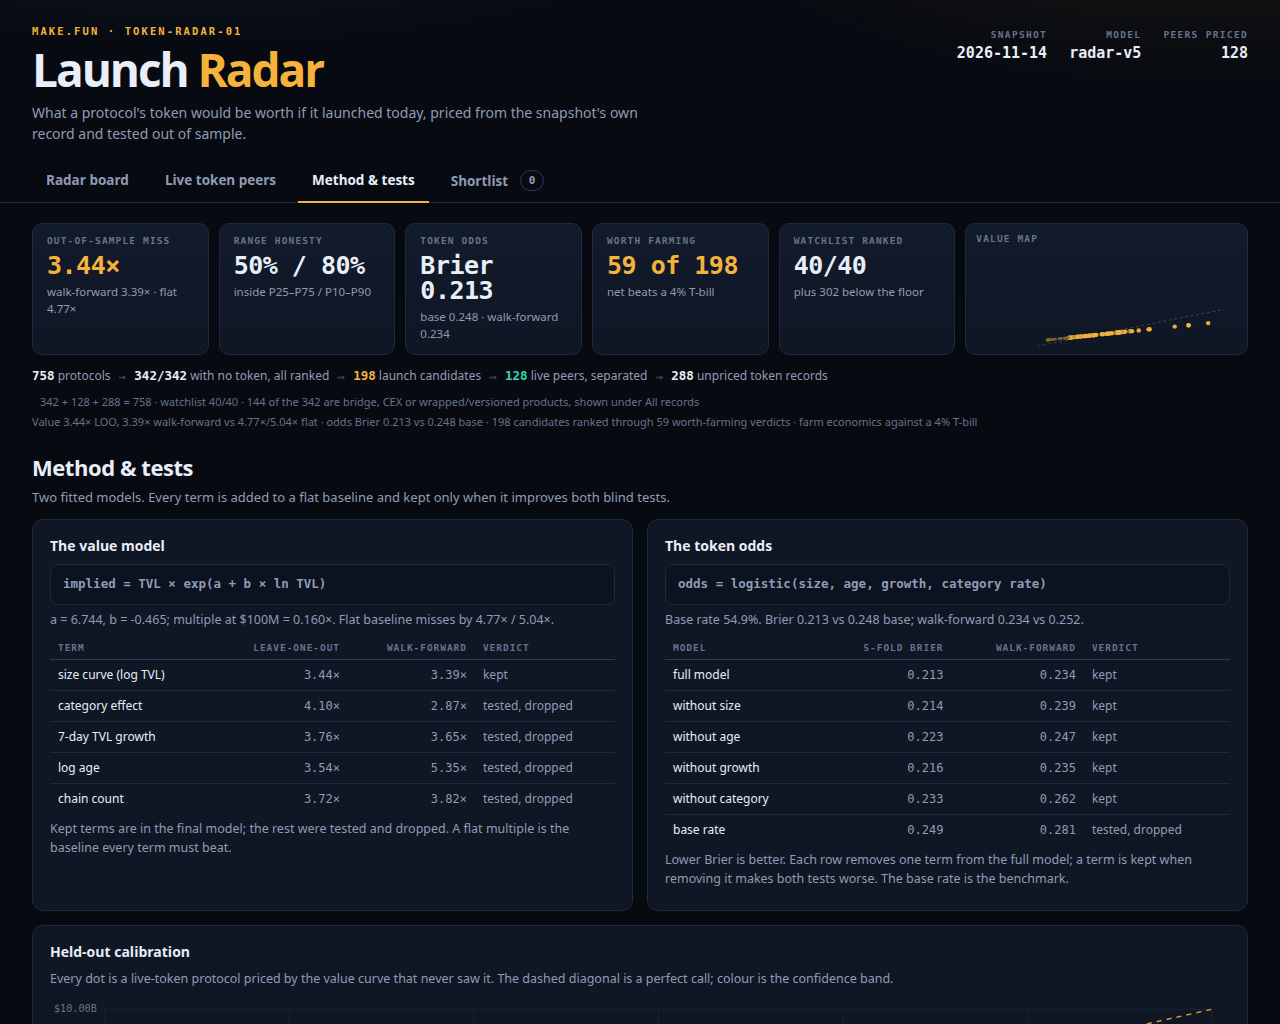
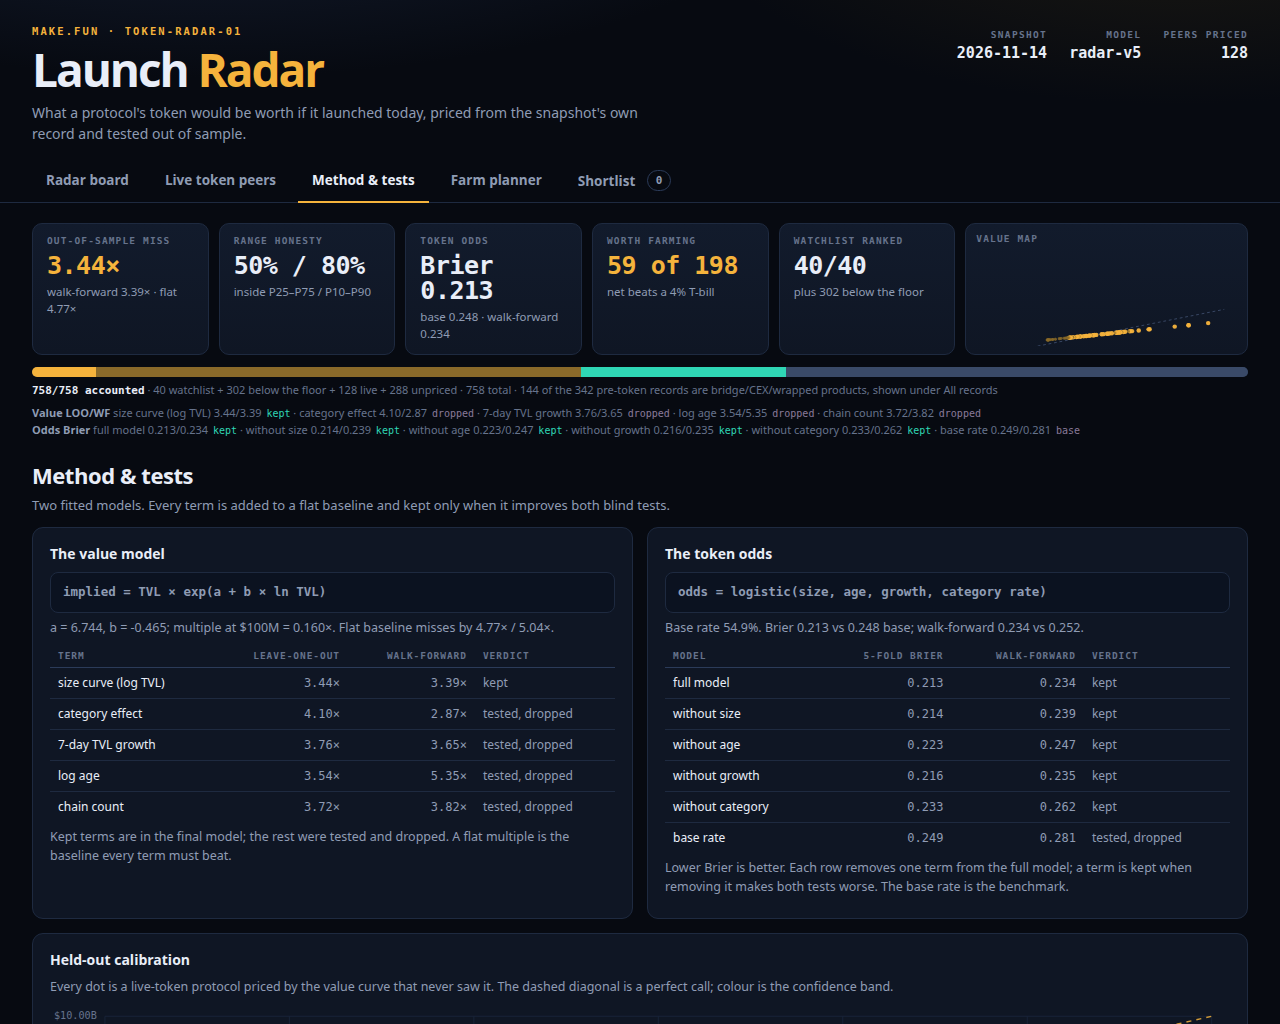
Add a farm planner and fit the dashboard back under the dossier cap
Allocate a budget across the shortlist (or the top six by net per hour),
with horizon and risk controls and portfolio drop/fees/net against a
4% T-bill. Remove the dashboard README and duplicated method tables to
stay inside the 65,536-byte source cap. Model unchanged from v5; held.

diff --git a/dashboard/app.js b/dashboard/app.js
@@ -43,10 +43,11 @@
     return 1 / (1 + Math.exp(-z));
   }
   function verdictOf(net, odds, benchmark) { return net > benchmark && odds >= 0.5 ? 'worth' : net > 0 ? 'marginal' : 'skip'; }
-  function farm(row, pos) {
+  function farm(row, pos, horizon) {
+    horizon = horizon || 12;
     var drop = row.implied * R.model.dropShare * (pos / row.tvl);
     var net = drop - row.plan.fees;
-    var benchmark = pos * 0.04 * 12 / 52;
+    var benchmark = pos * 0.04 * horizon / 52;
     return { drop: drop, fees: row.plan.fees, net: net, benchmark: benchmark, perHour: net / Math.max(0.1, row.plan.hours), verdict: verdictOf(net, row.odds, benchmark) };
   }
 
@@ -68,6 +69,7 @@
     if (parts[0] === 'live') return { name: 'live' };
     if (parts[0] === 'method') return { name: 'method' };
     if (parts[0] === 'compare') return { name: 'compare', params: params };
+    if (parts[0] === 'plan') return { name: 'plan' };
     return { name: 'board', params: params };
   }
   function show(name) {
@@ -78,6 +80,7 @@
     $('#liveView').hidden = name !== 'live';
     $('#methodView').hidden = name !== 'method';
     $('#compareView').hidden = name !== 'compare';
+    $('#planView').hidden = name !== 'plan';
     $('#detailView').hidden = name !== 'detail';
     document.querySelectorAll('.tabs a').forEach(function (a) {
       if (a.getAttribute('data-tab') === name) a.setAttribute('aria-current', 'page'); else a.removeAttribute('aria-current');
@@ -624,24 +627,6 @@
       rr.appendChild(d);
     });
     drawCalibration();
-    var ct = $('#countTable');
-    var cb = el('tbody');
-    [['Protocols in the snapshot', R.counts.protocols], ['Records with no token', R.counts.preToken], ['Launch candidates', R.counts.candidates], ['On the watchlist', R.counts.watchlist], ['Live tokens separated', R.counts.live], ['Token records without a price', R.counts.unpriced], ['Excluded: bridge TVL', R.counts.excludedBridge], ['Excluded: exchange product', R.counts.excludedCex], ['Excluded: wrapped / versioned', R.counts.excludedProduct], ['Farm verdict: worth', R.counts.worth], ['Farm verdict: marginal', R.counts.marginal], ['Farm verdict: skip', R.counts.skip]].forEach(function (r) {
-      var tr = el('tr');
-      tr.appendChild(el('td', null, r[0]));
-      tr.appendChild(el('td', 'num', FMT.format(r[1])));
-      cb.appendChild(tr);
-    });
-    ct.replaceChildren(cb);
-    var fr = $('#farmRow');
-    fr.replaceChildren();
-    [['Plan size', '$10,000', 'per farm'], ['Drop share', '7%', 'of implied value'], ['T-bill', '$' + R.model.benchmark.toFixed(0), '12 weeks'], ['Worth', R.counts.worth + ' of ' + R.counts.candidates, 'beats it after fees']].forEach(function (s) {
-      var d = el('div', 'score');
-      d.appendChild(el('span', null, s[0]));
-      d.appendChild(el('b', null, s[1]));
-      d.appendChild(el('em', null, s[2]));
-      fr.appendChild(d);
-    });
     $('#provenance').textContent = 'Source: ' + R.source + '. Snapshot ' + R.asOf + ', watchlist floor $' + FMT.format(R.floor) + '.';
   }
 
@@ -693,6 +678,64 @@
     host.appendChild(links);
   }
 
+  // ---------- farm planner ----------
+  function renderPlan() {
+    var budget = Number($('#planBudget').value) || 10000;
+    var horizon = Number($('#planHorizon').value) || 12;
+    var risk = $('#planRisk').value;
+    var owned = R.rows.filter(function (r) { return pins.has(r.slug); });
+    var chosen = owned.length ? owned : R.rows.filter(function (r) { return r.candidate && r.plan.verdict !== 'skip'; }).sort(function (a, b) { return b.plan.perHour - a.plan.perHour; }).slice(0, 6);
+    if (risk === 'worth') chosen = chosen.filter(function (r) { return r.plan.verdict === 'worth'; });
+    var host = $('#planBody');
+    host.replaceChildren();
+    if (chosen.length === 0) {
+      host.appendChild(el('p', 'empty', owned.length ? 'No shortlisted row passes this filter. Widen it or star other rows.' : 'No candidate passes this filter. Lower the bar or switch the verdict.'));
+      return;
+    }
+    var alloc = budget / chosen.length;
+    var rows = chosen.map(function (r) { return { r: r, f: farm(r, alloc, horizon) }; });
+    var drop = rows.reduce(function (s, x) { return s + x.f.drop; }, 0);
+    var fees = rows.reduce(function (s, x) { return s + x.f.fees; }, 0);
+    var net = drop - fees;
+    var bench = budget * 0.04 * horizon / 52;
+    var hours = Math.max.apply(null, chosen.map(function (r) { return r.plan.hours; }));
+    var verdict = net > bench ? 'worth' : net > 0 ? 'marginal' : 'skip';
+    var totals = el('div', 'terms planTotals');
+    [['Budget', money(budget), chosen.length + ' protocols · ' + money(alloc) + ' each'], ['Drop', money(drop), '7% of implied × share'], ['Fees', money(fees), 'gas across the plan'], ['Net', money(net), verdict.toUpperCase()], ['T-bill', money(bench), horizon + ' weeks at 4%'], ['Net / hour', money(net / Math.max(0.1, hours)), 'parallel farm · ' + hours + ' h']].forEach(function (t) {
+      var d = el('div', 'term' + (t[0] === 'Net' ? ' result' : ''));
+      d.appendChild(el('span', null, t[0]));
+      d.appendChild(el('b', null, t[1]));
+      d.appendChild(el('em', null, t[2]));
+      totals.appendChild(d);
+    });
+    host.appendChild(totals);
+    var note = el('p', 'muted', owned.length ? 'Using your ' + owned.length + ' starred rows.' : 'No starred rows: using the top six candidates by net per hour. Star rows on the board to plan your own.');
+    host.appendChild(note);
+    var table = el('table', 'mini planList');
+    var thead = el('thead');
+    var hr = el('tr');
+    ['Protocol', 'Allocation', 'Drop', 'Fees', 'Net', 'Verdict'].forEach(function (h, i) { hr.appendChild(el('th', i ? 'num' : '', h)); });
+    thead.appendChild(hr);
+    table.appendChild(thead);
+    var body = el('tbody');
+    rows.forEach(function (x) {
+      var tr = el('tr');
+      var name = el('td');
+      var a = el('a', 'inlineLink', x.r.name);
+      a.href = '#/p/' + encodeURIComponent(x.r.slug);
+      name.appendChild(a);
+      tr.appendChild(name);
+      tr.appendChild(el('td', 'num', money(alloc)));
+      tr.appendChild(el('td', 'num', money(x.f.drop)));
+      tr.appendChild(el('td', 'num', '$' + x.f.fees.toFixed(2)));
+      tr.appendChild(el('td', 'num ' + (x.f.net > 0 ? 'up' : 'dn'), money(x.f.net)));
+      tr.appendChild(el('td', null, x.f.verdict));
+      body.appendChild(tr);
+    });
+    table.appendChild(body);
+    host.appendChild(table);
+  }
+
   // ---------- boot ----------
   function applyParams(params) {
     if (!params) return;
@@ -712,10 +755,14 @@
     else if (r.name === 'live') renderLive();
     else if (r.name === 'method') renderMethod();
     else if (r.name === 'compare') renderCompare(r.params);
+    else if (r.name === 'plan') renderPlan();
     else detail(r.slug);
     window.scrollTo(0, 0);
   }
   savePins();
+  $('#planBudget').addEventListener('change', renderPlan);
+  $('#planHorizon').addEventListener('change', renderPlan);
+  $('#planRisk').addEventListener('change', renderPlan);
   renderChrome();
   buildControls();
   renderMethod();

diff --git a/dashboard/index.html b/dashboard/index.html
@@ -27,6 +27,7 @@
   <a href="#/board" data-tab="board">Radar board</a>
   <a href="#/live" data-tab="live">Live token peers</a>
   <a href="#/method" data-tab="method">Method &amp; tests</a>
+  <a href="#/plan" data-tab="plan">Farm planner</a>
   <a href="#/compare" data-tab="compare">Shortlist <span id="pinNav" class="pill">0</span></a>
 </nav>
 
@@ -132,13 +133,10 @@
         <h3>Range honesty</h3>
         <p class="muted" id="rangeText"></p>
         <div class="scoreRow" id="rangeRow"></div>
-        <h3>What the board holds</h3>
-        <table class="mini" id="countTable"><tbody></tbody></table>
       </article>
       <article class="panel">
         <h3>Farm economics</h3>
         <p class="muted">A $10,000 position over 12 weeks. Drop = implied value × 7% × position ÷ TVL. Fees are the plan's gas. The benchmark is the same money in a 4% T-bill for 12 weeks.</p>
-        <div class="scoreRow" id="farmRow"></div>
         <h3>Limits</h3>
         <ul class="limits">
           <li>The snapshot is one day; TVL moves and the band is wider than one point estimate.</li>
@@ -149,6 +147,16 @@
         <p class="muted source" id="provenance"></p>
       </article>
     </div>
+  </section>
+
+  <section id="planView" hidden>
+    <div class="sectionHead"><h2>Farm planner</h2><p>Put a budget across your shortlist (or the top six by net per hour) and compare the total with the same money in a 4% T-bill.</p></div>
+    <div class="toolbar">
+      <label><span>Budget</span><select id="planBudget"><option value="1000">$1,000</option><option value="10000" selected>$10,000</option><option value="50000">$50,000</option><option value="100000">$100,000</option></select></label>
+      <label><span>Horizon</span><select id="planHorizon"><option value="12" selected>12 weeks</option><option value="26">26 weeks</option><option value="52">52 weeks</option></select></label>
+      <label><span>Include</span><select id="planRisk"><option value="all">Worth + marginal</option><option value="worth">Worth only</option></select></label>
+    </div>
+    <div id="planBody"></div>
   </section>
 
   <section id="compareView" hidden>

diff --git a/dashboard/app.css b/dashboard/app.css
@@ -1,14 +1,8 @@
-:root{
-  --bg:#070a11;--panel:#0f1624;--panel2:#121b2c;--line:#1e2a40;--line2:#2b3b59;
-  --text:#e9eef8;--mute:#8f9cb4;--dim:#66738c;--amber:#f5b33c;--amber2:#ffd07a;
-  --teal:#2fd6b5;--red:#ff7b8a;--purple:#9a86b8;
-  --mono:ui-monospace,"SF Mono",SFMono-Regular,Menlo,Consolas,monospace;
-}
+:root{ --bg:#070a11;--panel:#0f1624;--panel2:#121b2c;--line:#1e2a40;--line2:#2b3b59; --text:#e9eef8;--mute:#8f9cb4;--dim:#66738c;--amber:#f5b33c;--amber2:#ffd07a; --teal:#2fd6b5;--red:#ff7b8a;--purple:#9a86b8; --mono:ui-monospace,"SF Mono",SFMono-Regular,Menlo,Consolas,monospace; }
 *{box-sizing:border-box}
 [hidden]{display:none!important}
 html{background:var(--bg)}
-body{margin:0;color:var(--text);font:15px/1.5 system-ui,-apple-system,"Segoe UI",Roboto,sans-serif;
-  background:radial-gradient(1100px 420px at 16% -10%,#18233a 0%,transparent 60%),radial-gradient(900px 380px at 92% -6%,#1d1a12 0%,transparent 55%),var(--bg)}
+body{margin:0;color:var(--text);font:15px/1.5 system-ui,-apple-system,"Segoe UI",Roboto,sans-serif; background:radial-gradient(1100px 420px at 16% -10%,#18233a 0%,transparent 60%),radial-gradient(900px 380px at 92% -6%,#1d1a12 0%,transparent 55%),var(--bg)}
 a{color:inherit}
 .skip{position:absolute;left:-999px;top:0;background:#fff;color:#000;padding:8px;z-index:20}
 .skip:focus{left:8px}
@@ -207,3 +201,6 @@ table.mini td.num{font-family:var(--mono)}
 .compareTable td:first-child{color:var(--mute);white-space:nowrap}
 .inlineLink{color:var(--amber);text-decoration:none;border-bottom:1px solid #6a5420}
 @media (max-width:1100px){.kpis{grid-template-columns:repeat(3,1fr)}.cols,.methodGrid{grid-template-columns:1fr}.terms{grid-template-columns:repeat(2,1fr)}.statGrid{grid-template-columns:repeat(2,1fr)}.stamp{display:none}}
+.planTotals{grid-template-columns:repeat(6,1fr)}
+.planList{margin-top:8px}
+@media (max-width:1100px){.planTotals{grid-template-columns:repeat(3,1fr)}}

diff --git a/docs/CHANGELOG.md b/docs/CHANGELOG.md
@@ -103,3 +103,14 @@ Rebuilt the model to the standard the leader's public artifact showed:
 - Dossier text is 64,683 of the 65,536-byte cap, so this is the last content change
   without cutting something.
 - Held under the user's rule: only a massive improvement earns another submission.
+
+### v7, 2026-11-23 — built, not submitted
+
+- Add a farm planner: budget ($1k-$100k), horizon (12/26/52 weeks) and risk filter;
+  allocates across the shortlist (or the top six by net per hour) and shows drop, fees,
+  net, T-bill benchmark and net per hour for the portfolio.
+- Free the source budget by removing the dashboard README (the board now carries the
+  term evidence) and the duplicated method count/farm tables.
+- Dashboard source is 65,279 of the 65,536-byte dossier cap; screenshots are 1280x1024.
+- Model unchanged from v5. Held under the user's rule: only a massive improvement earns
+  another submission.
